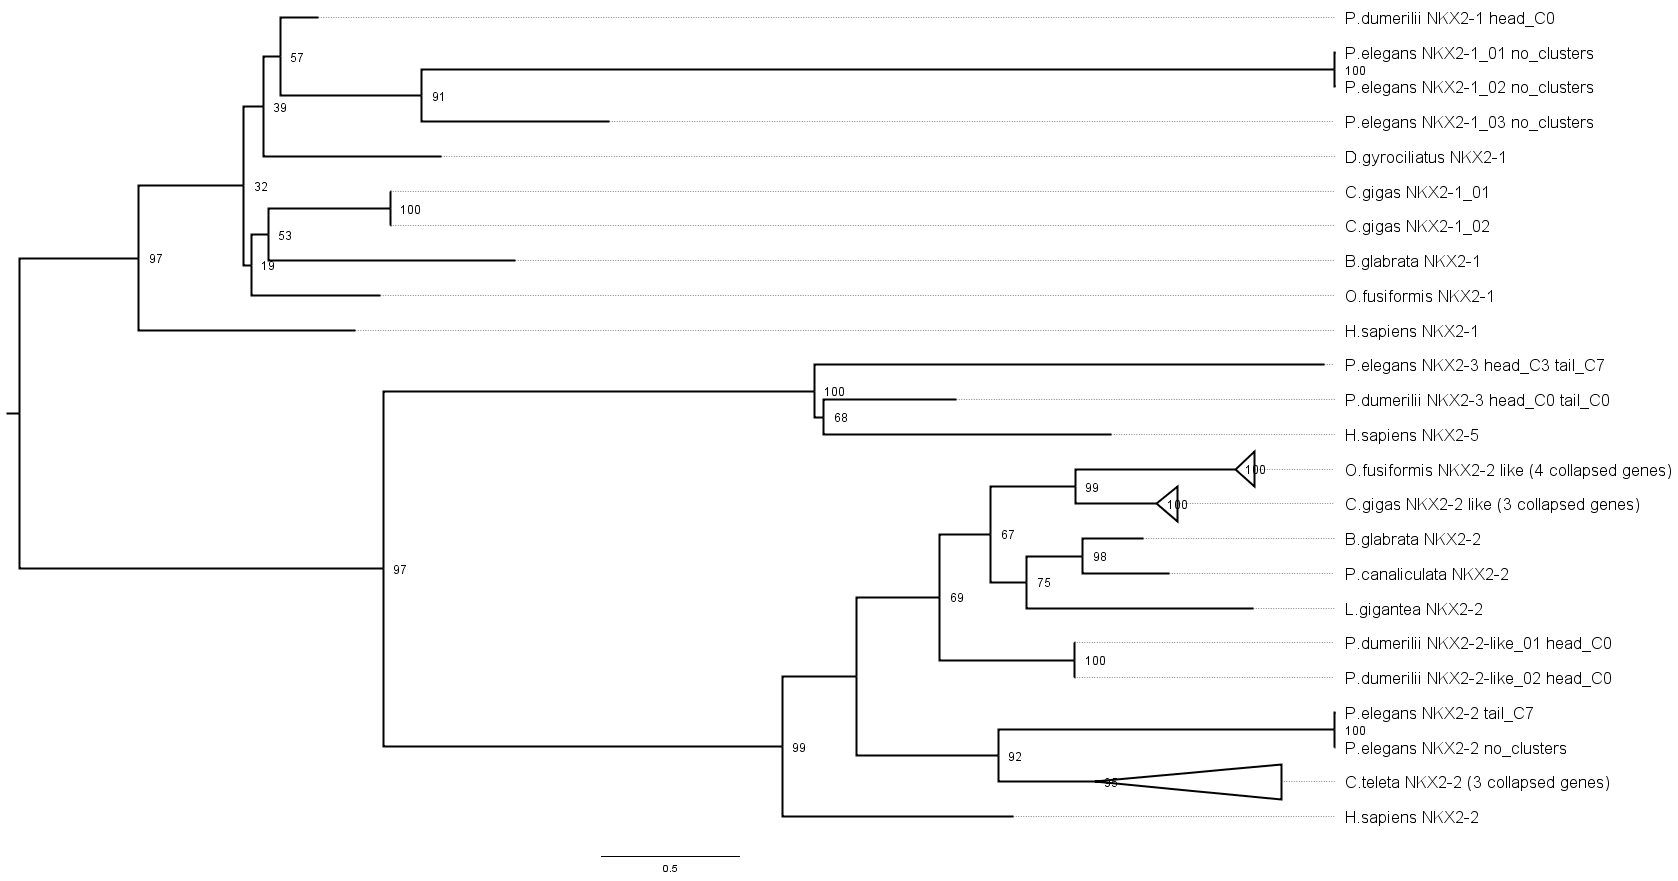
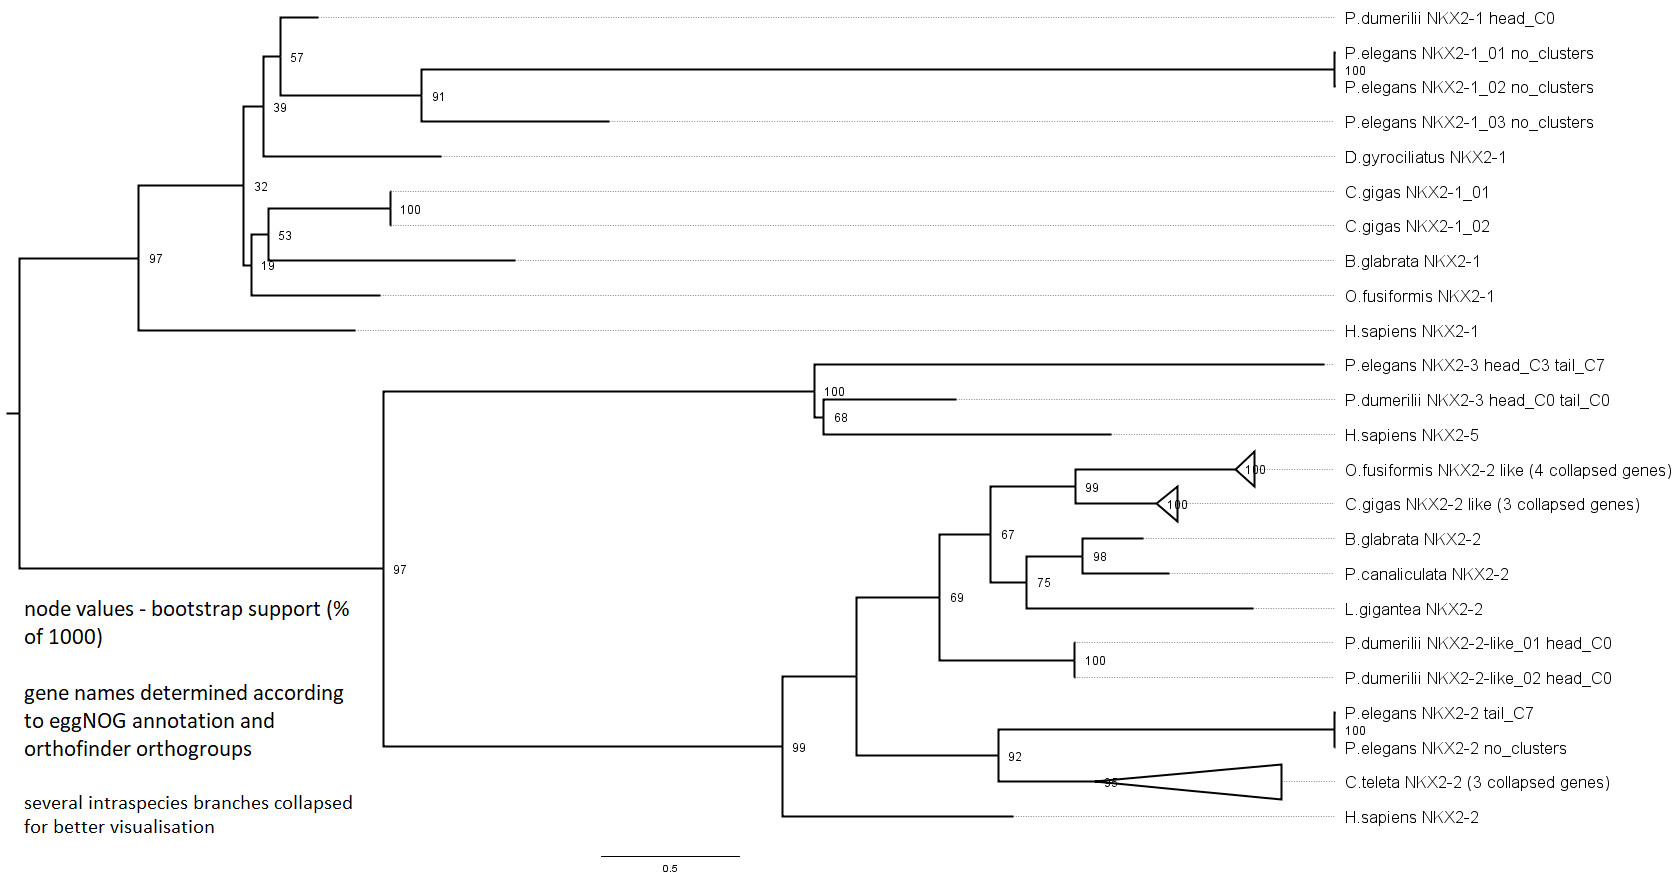
Add trees description, readme update

Changed region(s): [[0.0, 0.7662, 0.2169, 0.8581], [0.0, 0.8888, 0.2169, 0.9501], [0.0, 0.6742, 0.2169, 0.7355]]

diff --git a/README.md b/README.md
@@ -84,16 +84,12 @@ Multiple protein alignment generated with [MAFFT online servise](https://mafft.c
 
 Phylogenetic tree for PBX-like genes:
 ![](pbx_aligned.fasta.contree.png)
-<center>node values - bootstrap support (% of 1000) </center>
-<center> gene names determined according to eggNOG annotation and orthogroups</center> 
-<center> several intraspecies branches collapsed for better visualisation</center>
+
 We see that the architecture of this tree corresponds to the generally accepted ideas about the Spiralia evolution (O.fusiformis is a most basal Annelida, P.elegans close to C.teleta, Annelida and Mollusca are monophyletic groups). Interestingly, the only PBX-4-like gene among Spiralia has been identified in P.elegans, its role in anterior regeneration requires further evaluation.
 
 Phylogenetic tree for NKX2-like genes:
 ![](nkx2_aligned.fasta_annot.contree.png)
-<center>node values - bootstrap support (% of 1000) </center>
-<center> gene names determined according to eggNOG annotation and orthogroups</center> 
-<center> several intraspecies branches collapsed for better visualisation</center>
+
 We see more complex architecture with precense of 3 paralogous NKX2-like genes groups in P.dumerilii and P.elegans. Low bootstrap support for NKX2-1-like genes phylogeny probably related to low numbers of identified orthologs in Spiralia for these genes and requires further evaluation.
 
 ## Future plans
